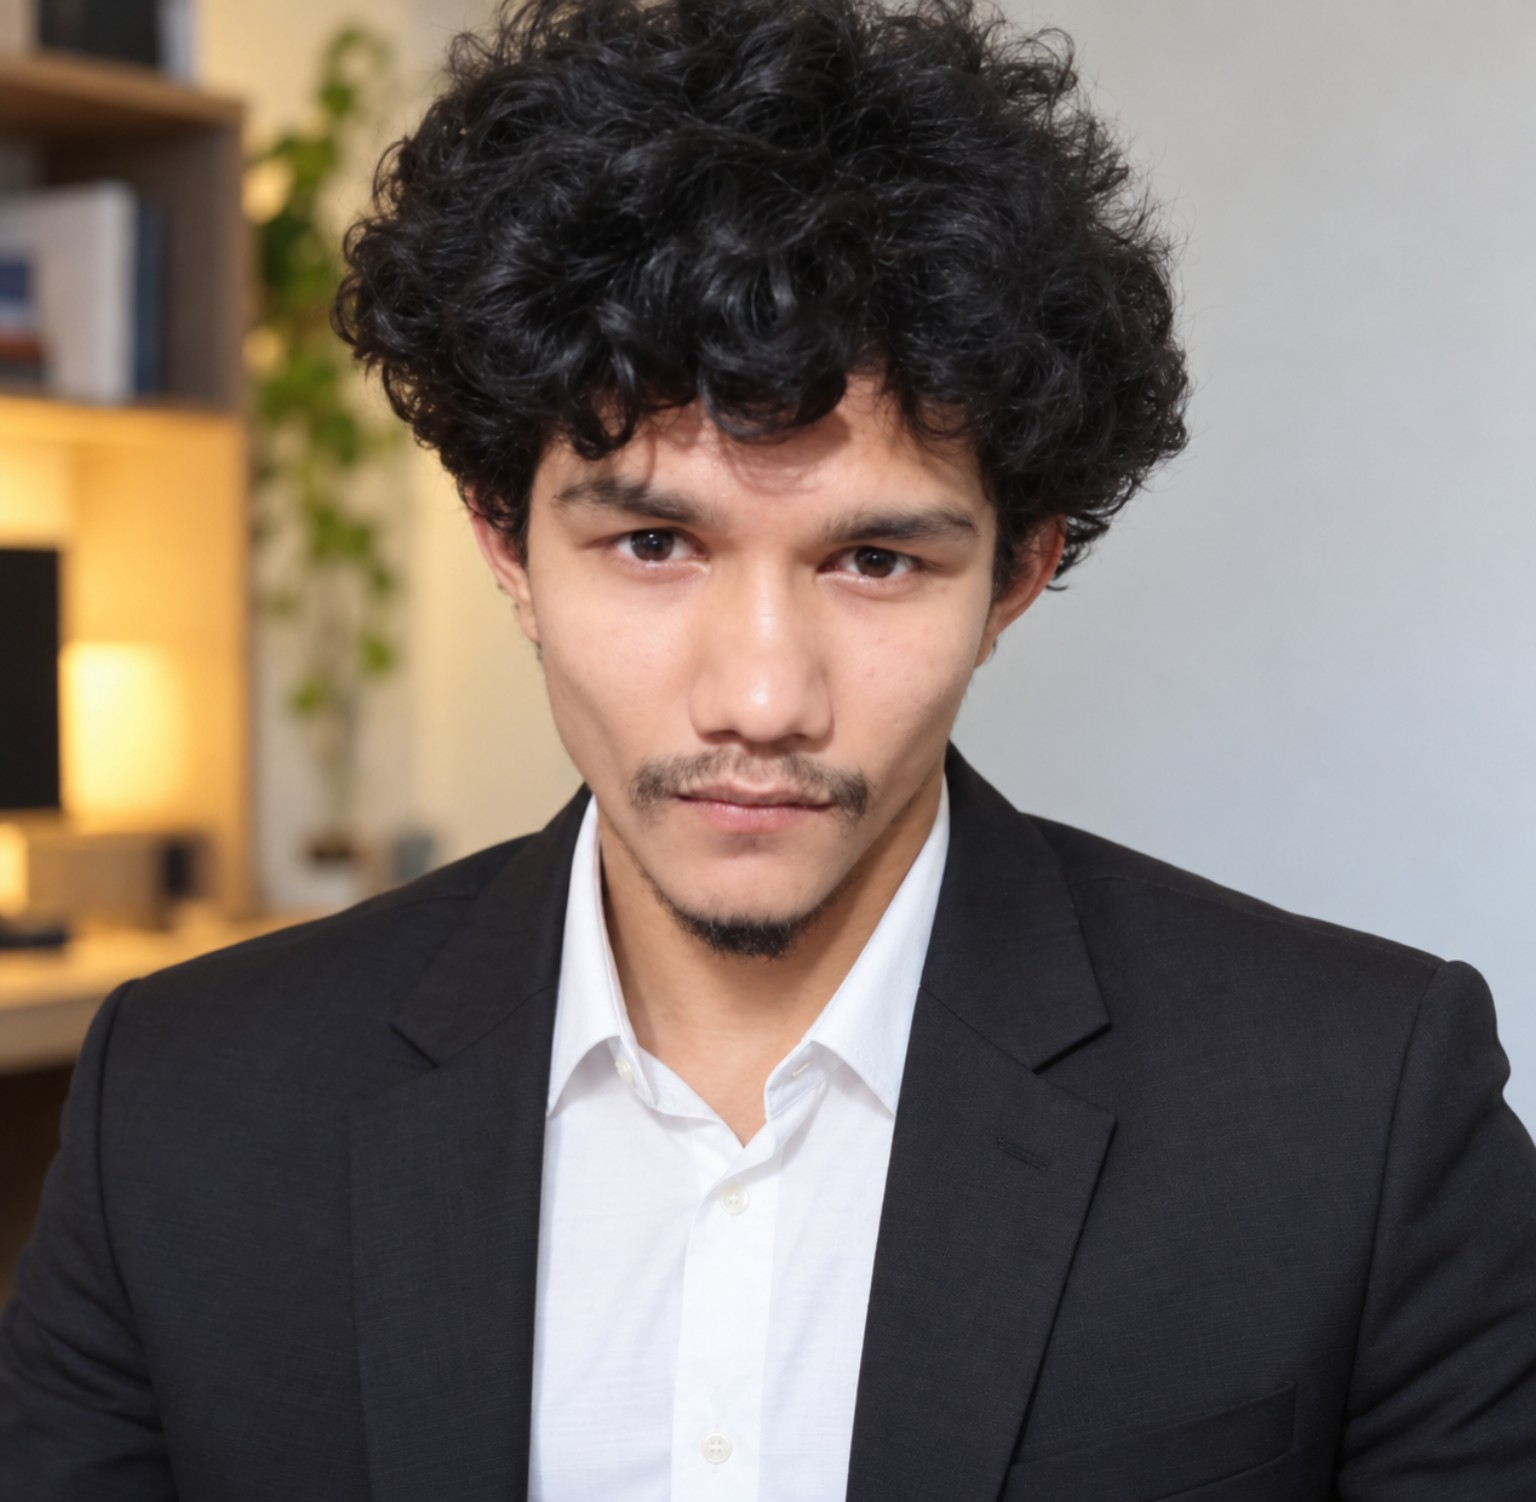
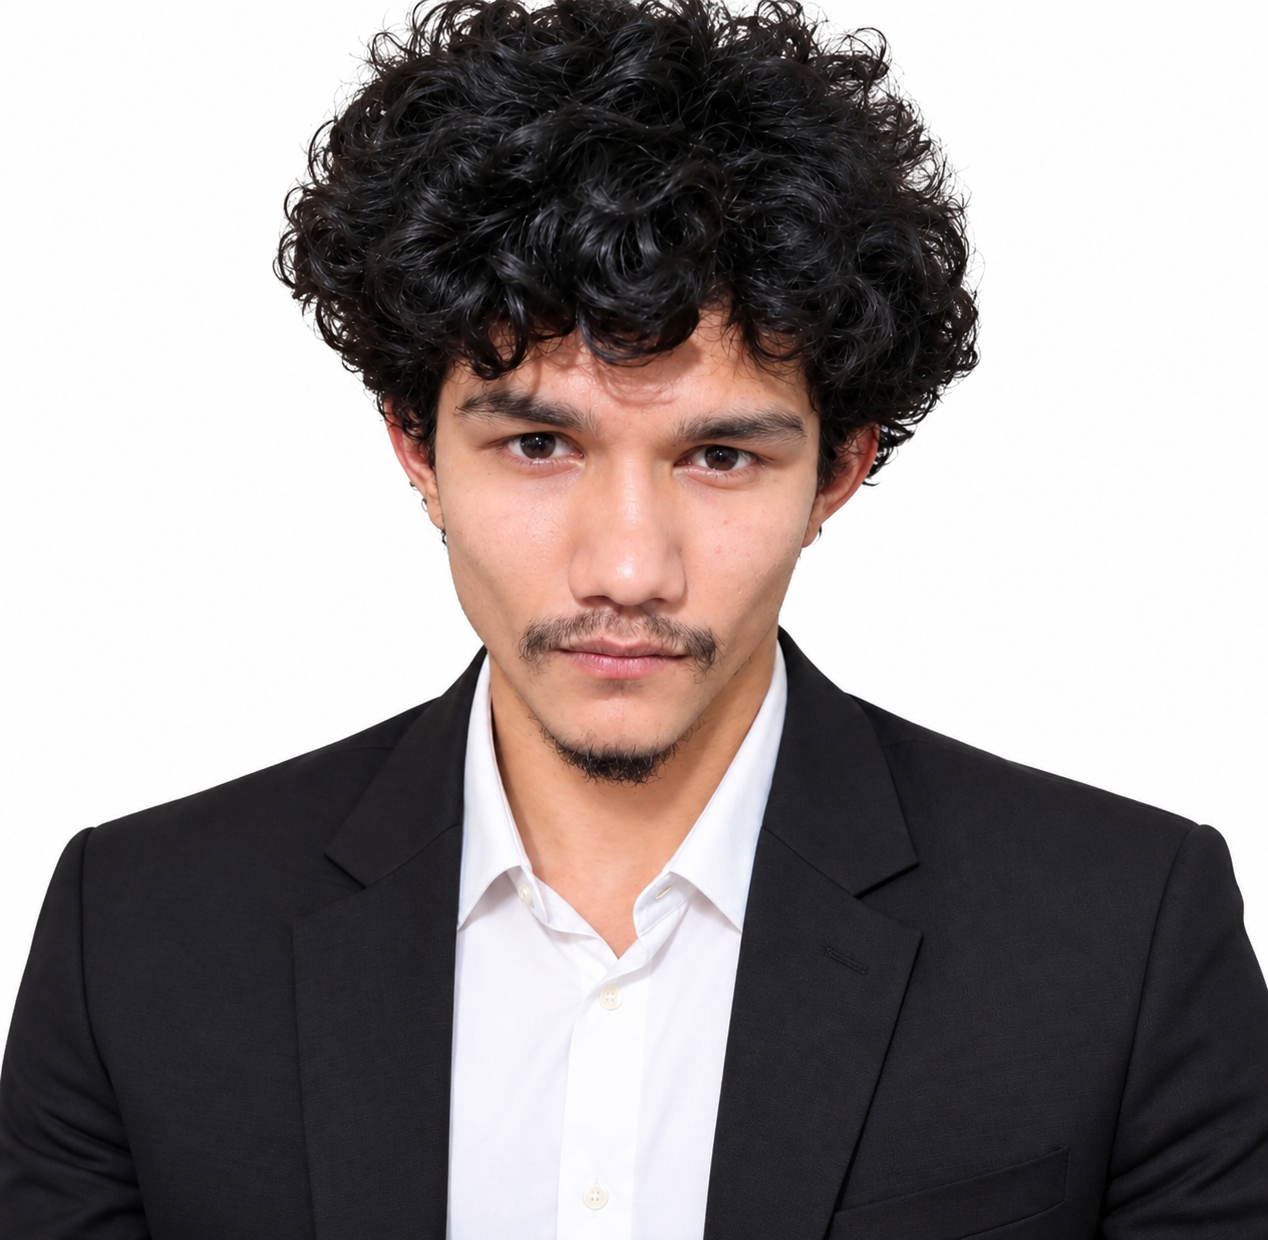
background removed

diff --git a/index.html b/index.html
@@ -940,7 +940,7 @@
               <div class="col-lg-3 col-md-6">
                 <div class="speaker-card compact">
                   <div class="speaker-image">
-                    <img src="aditya.jpeg" alt="Aditya" class="img-fluid">
+                    <img src="aditya.png" alt="Aditya" class="img-fluid">
                     <div class="team-photo-empty"><i class="bi bi-person"></i></div>
                   </div>
                   <div class="speaker-content">
